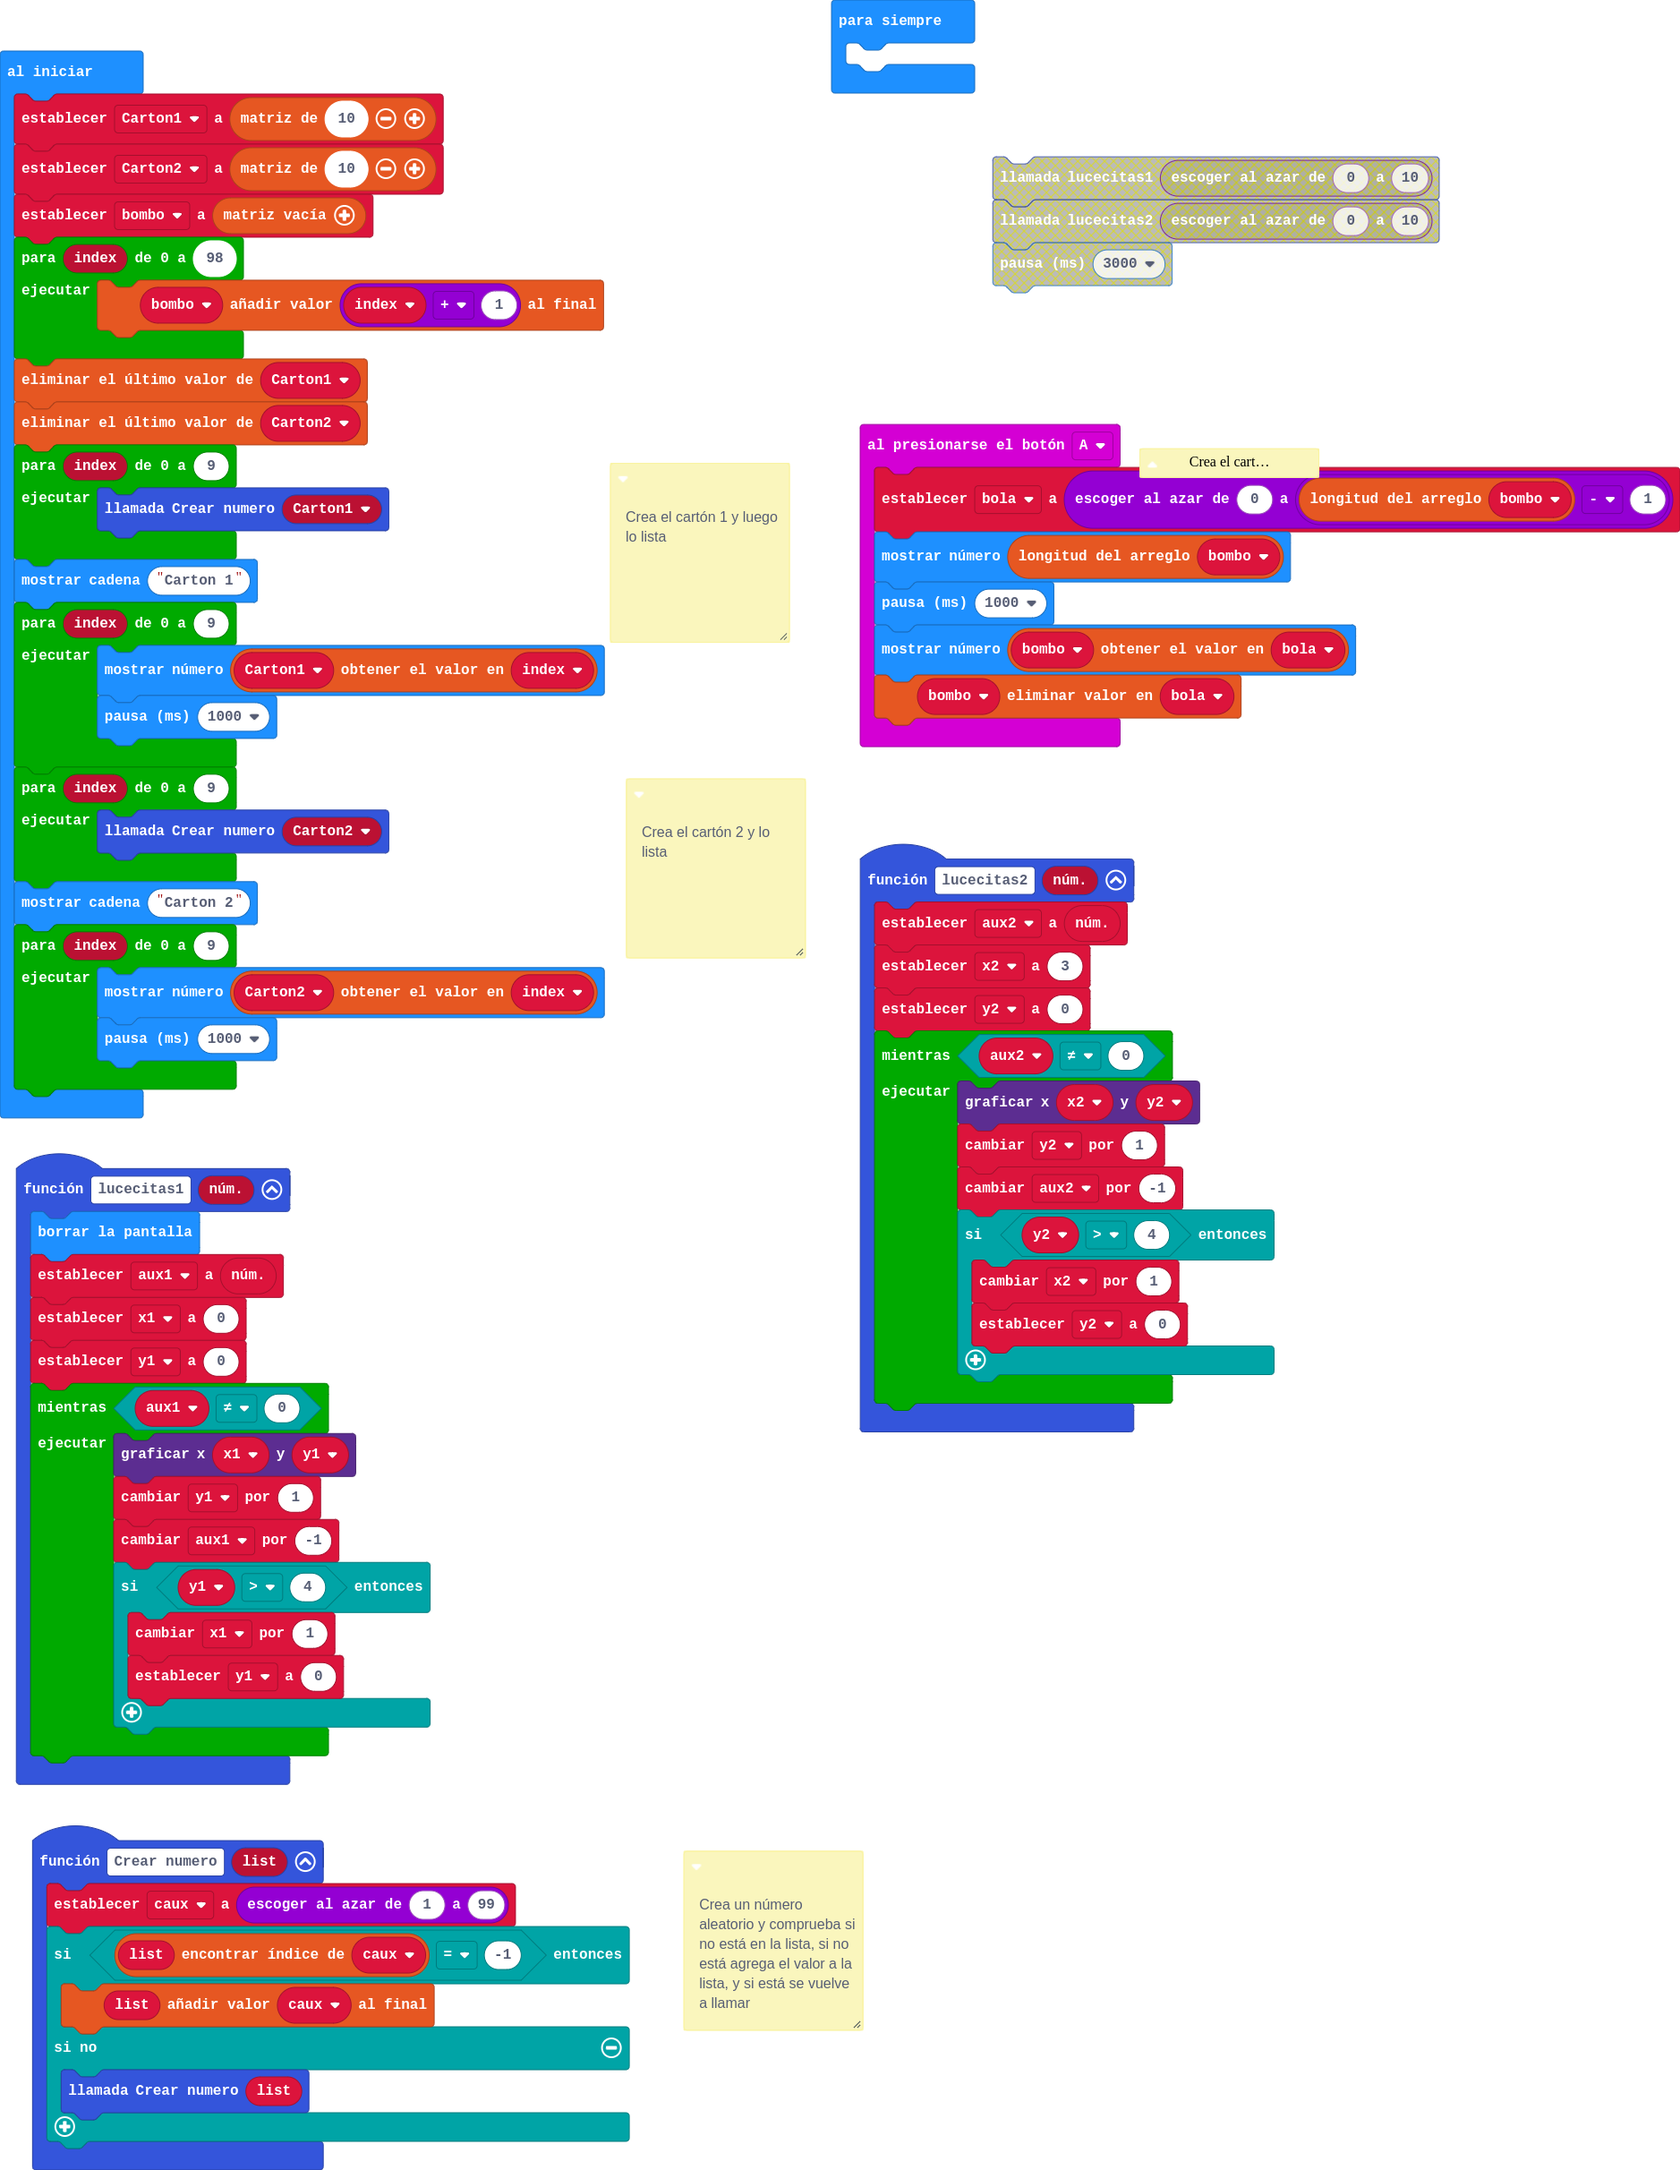
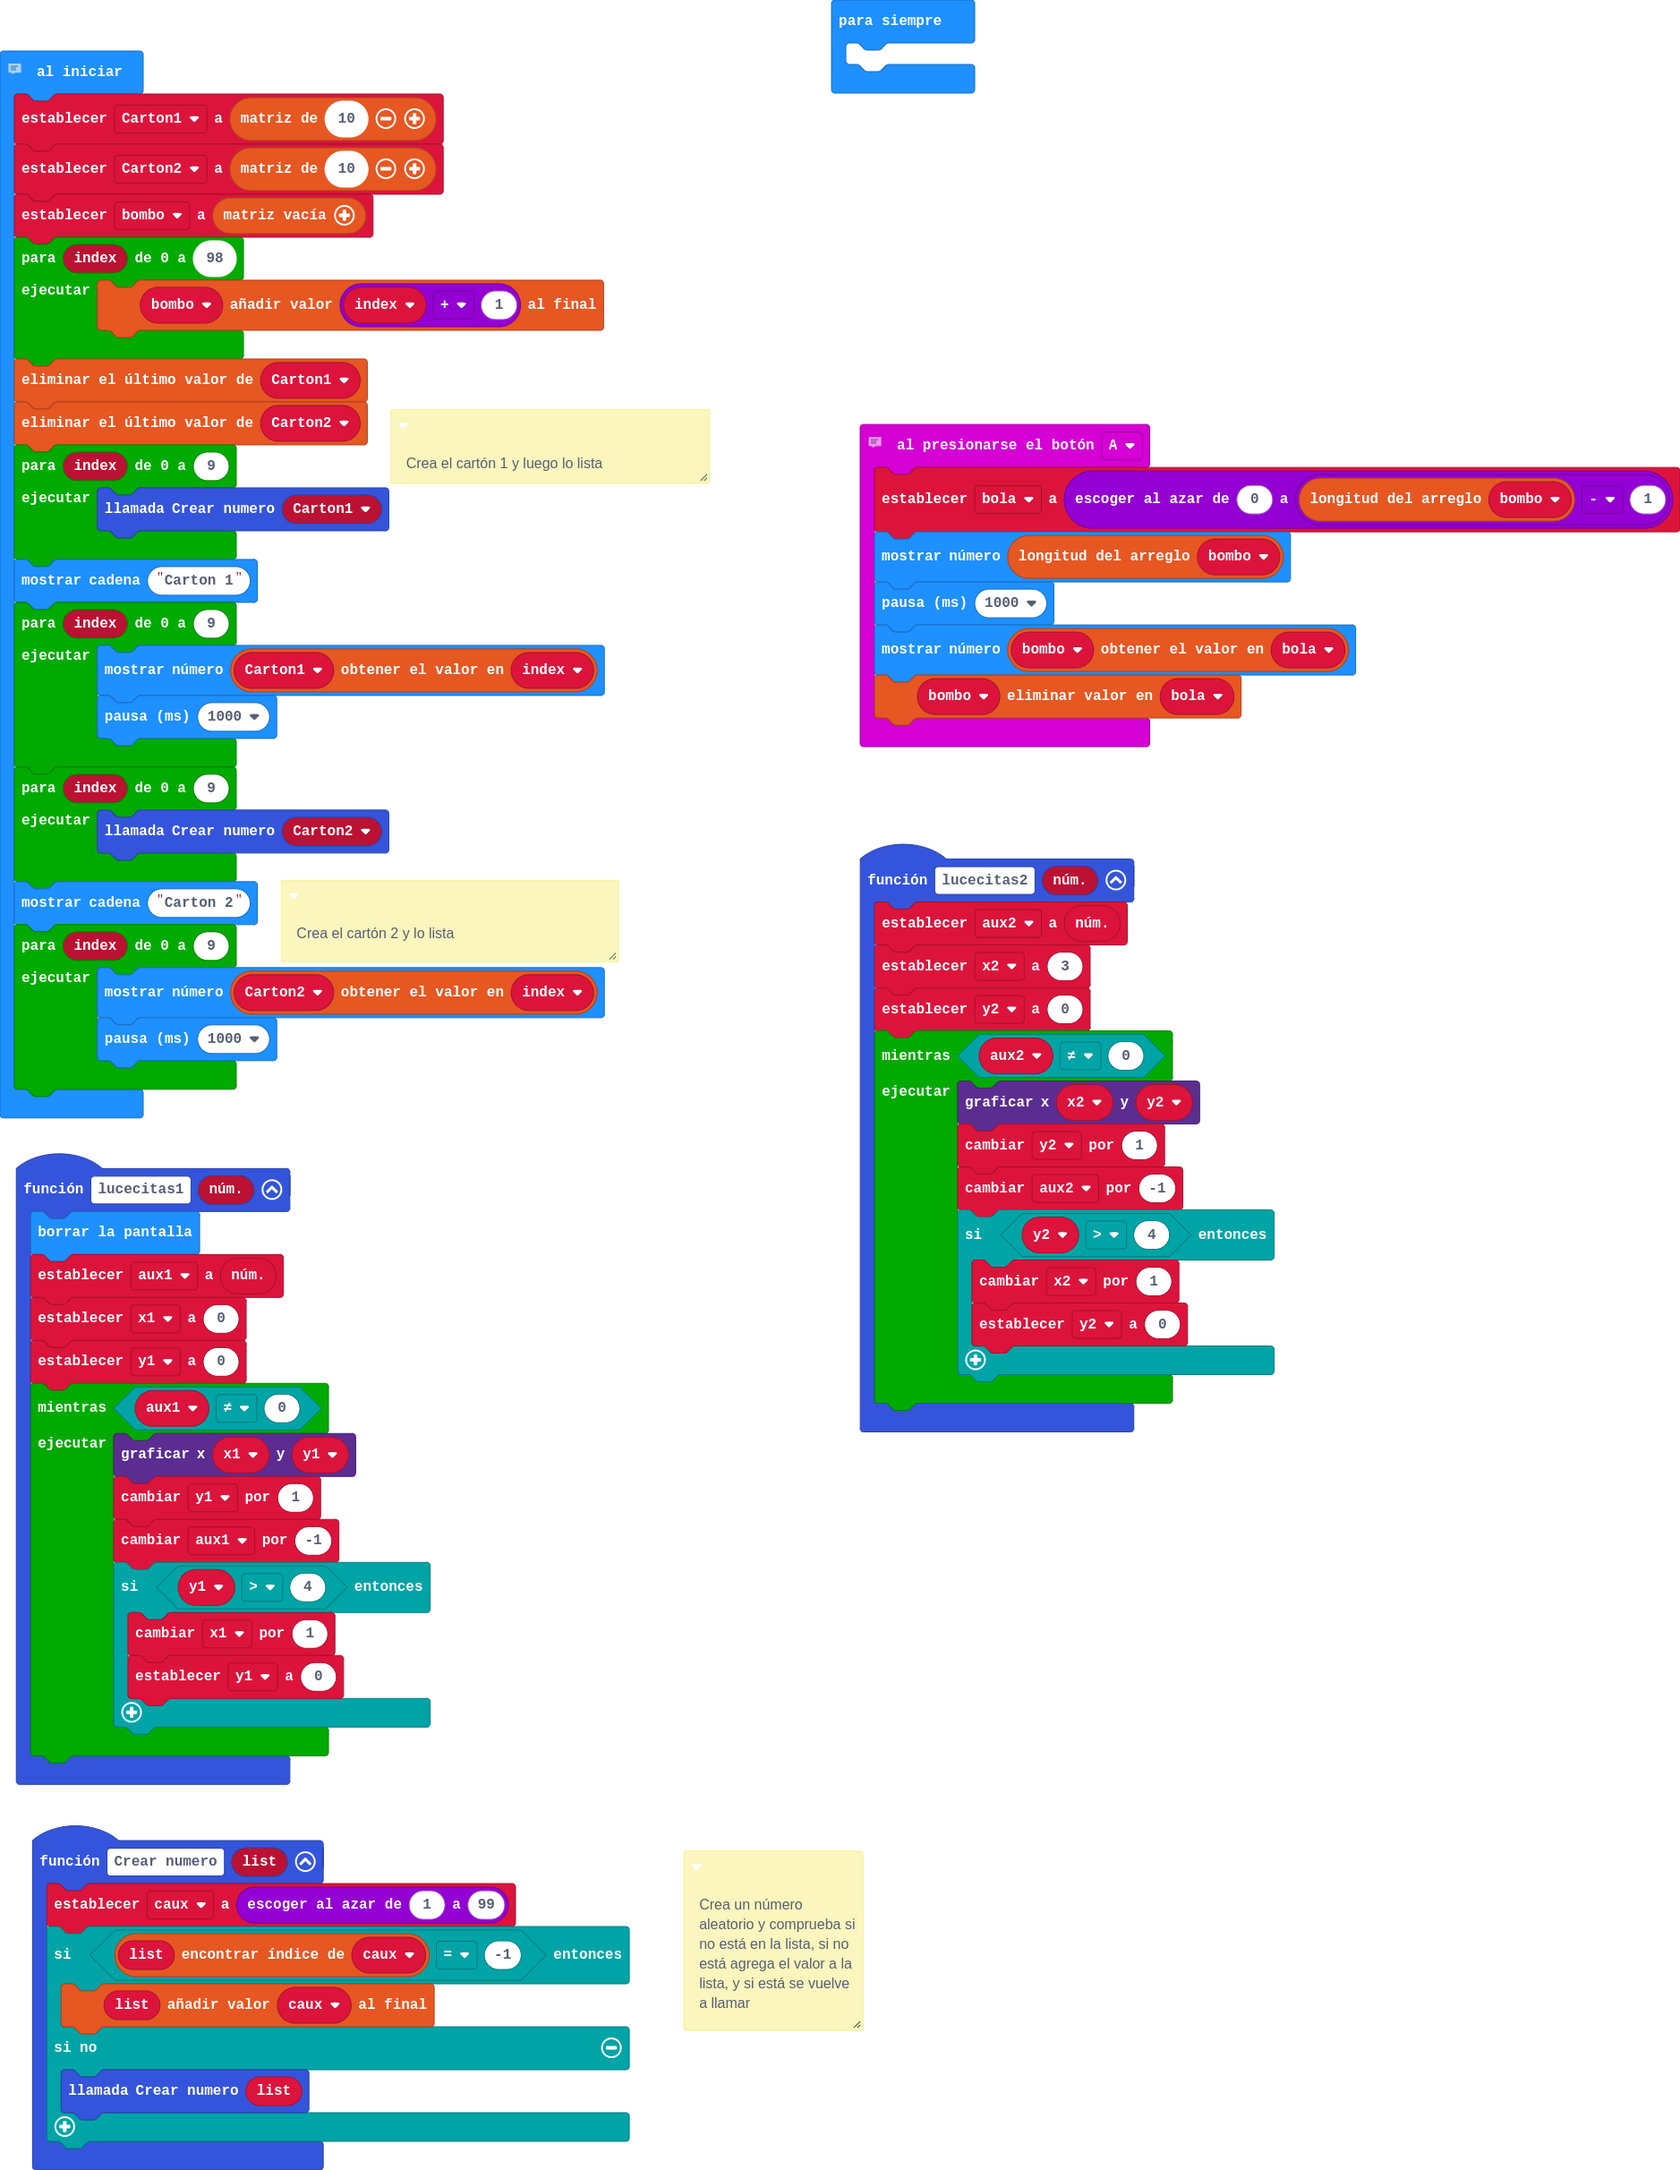
Actualizar main.blocks, main.ts

diff --git a/main.ts b/main.ts
@@ -1,7 +1,4 @@
 /**
- * Crea el cartón 2 y lo lista
- */
-/**
  * Crea un número aleatorio y comprueba si no está en la lista, si no está agrega el valor a la lista, y si está se vuelve a llamar
  */
 function Crear_numero (list: number[]) {
@@ -12,9 +9,8 @@ function Crear_numero (list: number[]) {
         Crear_numero(list)
     }
 }
-/**
- * Crea el cartón 1 y luego lo lista
- */
+// Saca una bola del bombo y comprueba los cartones
+// 
 input.onButtonPressed(Button.A, function () {
     bola = randint(0, bombo.length - 1)
     basic.showNumber(bombo.length)
@@ -54,6 +50,12 @@ function lucecitas1 (núm: number) {
 /**
  * Crea el cartón 1 y luego lo lista
  */
+/**
+ * Crea el cartón 2 y lo lista
+ */
+// Crea 3 listas
+// Bombo con 99 bolas
+// Y los 2 cartones aleatorios
 let y1 = 0
 let x1 = 0
 let aux1 = 0
